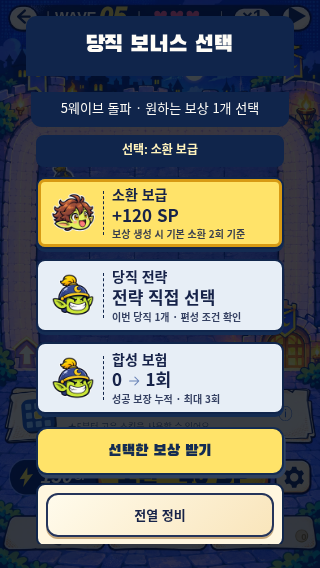
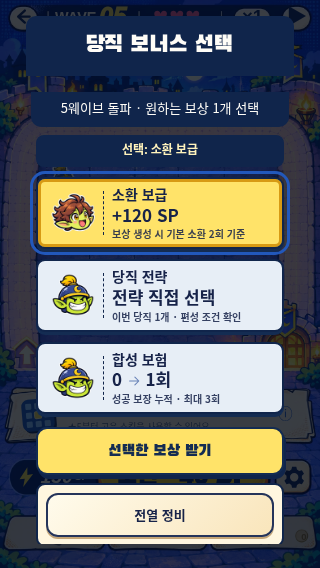
Preserve focus after keyboard reward selection

Changed region(s): [[0.0938, 0.2993, 0.9062, 0.4489], [0.1562, 0.838, 0.875, 0.868], [0.875, 0.8081, 0.9062, 0.838]]

diff --git a/progression.js b/progression.js
@@ -123,7 +123,7 @@ function renderPerkChoices(){
  });
  document.querySelector('#perk-note').textContent=en?'Targets are fixed. Merge insurance adds up to 3 charges. Temporary support expires after the next 5 waves.':'대상 고정 · 합성 보장 최대 3회 누적 · 전투 지원은 다음 5웨이브까지 적용';
 }
-function selectRewardOffer(index){if(!bonusPending||!playing||ended||!paused||!GameSession.canWrite()||rewardBundle?.mode!=='choice'||!Number.isInteger(index)||index<0||index>=3||!rewardEligible(rewardBundle.offers[index]||{}))return false;rewardBundle.selection=index;saveActiveRun();renderPerkChoices();return true}
+function selectRewardOffer(index){if(!bonusPending||!playing||ended||!paused||!GameSession.canWrite()||rewardBundle?.mode!=='choice'||!Number.isInteger(index)||index<0||index>=3||!rewardEligible(rewardBundle.offers[index]||{}))return false;rewardBundle.selection=index;saveActiveRun();renderPerkChoices();document.querySelector('#perk-'+rewardBundle.offers[index].id)?.focus?.({preventScroll:true});return true}
 // Retained entry point for older callers: targets now live directly on the card.
 function showPerkTargets(){renderPerkChoices()}
 function choosePerk(id,type){

diff --git a/tests/test_fun_priorities.py b/tests/test_fun_priorities.py
@@ -23,7 +23,10 @@ class FunPriorityTests(unittest.TestCase):
             p=self.open(width,height);errors=[];p.on('pageerror',lambda e:errors.append(str(e)));self.reward(p,5,lang)
             self.assertTrue(p.locator('#roulette-claim').is_disabled())
             self.assertEqual(p.locator('#perk-options>button:visible:enabled').count(),3)
-            p.locator('#perk-sp').click();self.assertEqual(p.locator('#perk-sp').get_attribute('aria-pressed'),'true')
+            if lang=='ko':p.locator('#perk-sp').focus();p.locator('#perk-sp').press('Enter')
+            else:p.locator('#perk-sp').click()
+            self.assertEqual(p.locator('#perk-sp').get_attribute('aria-pressed'),'true')
+            self.assertEqual(p.evaluate('document.activeElement.id'),'perk-sp')
             self.capture(p,f'{lang}-{width}-choice')
             saved=p.evaluate('({offers:JSON.stringify(rewardBundle.offers),selection:rewardBundle.selection})')
             p.reload(wait_until='networkidle');p.wait_for_function('GameSession.canWrite()');self.assertTrue(p.evaluate('resumeRun()'))

diff --git a/docs/fun-priorities-20261123.md b/docs/fun-priorities-20261123.md
@@ -4,7 +4,7 @@
 
 ## 1. 보상에서 판을 바꿀 선택권 제공
 
-- 새로 생성하는 정식 당직 5·15웨이브 보상은 3개 중 직접 고른다. 카드를 누르고 확인해야 받으며, 선택 상태도 저장한다.
+- 새로 생성하는 정식 당직 5·15웨이브 보상은 3개 중 직접 고른다. 카드를 누르고 확인해야 받으며, 선택 상태도 저장한다. 키보드 선택 후에도 해당 카드의 포커스를 유지한다.
 - 기존 보상 종류·수량은 유지한다. 첫 5웨이브에는 SP 보급·당직 전략·합성 보험 등이 실제 상태에 맞춰 제시된다. 15웨이브에도 원래 성장·상황 보상 중 필요한 것을 직접 고른다.
 - 전략 카드를 선택하면 다음 화면에 **연쇄 잔광 / 정산 특근 / 비상 방벽** 세 가지가 나온다. 당직당 전략 1개 제한은 유지한다. 정산 특근은 편성 서기 또는 장착 회계사가 있어야 고를 수 있다. 선택 불가능한 이유도 표시한다.
 - 화면당 보상 3개 규칙을 유지한다. 전략의 세부 선택도 별도 화면의 3개 버튼으로 제공한다.
